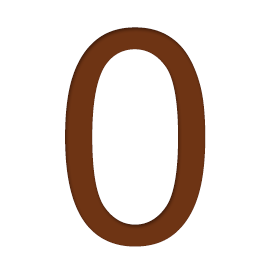
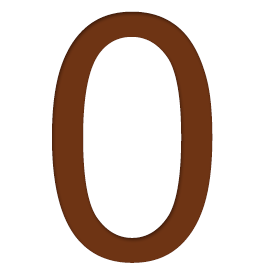
背景图片变大

Changed region(s): [[0.1798, 0.0292, 0.809, 0.9635]]

diff --git a/DeskNoManager/Form1.Designer.cs b/DeskNoManager/Form1.Designer.cs
@@ -65,7 +65,7 @@
             this.label1.AutoSize = true;
             this.label1.BackColor = System.Drawing.Color.Transparent;
             this.label1.ForeColor = System.Drawing.Color.LightCoral;
-            this.label1.Location = new System.Drawing.Point(220, 741);
+            this.label1.Location = new System.Drawing.Point(493, 780);
             this.label1.Name = "label1";
             this.label1.Size = new System.Drawing.Size(209, 12);
             this.label1.TabIndex = 1;
@@ -86,7 +86,7 @@
             this.pic1.BackColor = System.Drawing.Color.Transparent;
             this.pic1.BackgroundImageLayout = System.Windows.Forms.ImageLayout.Center;
             this.pic1.Image = global::DeskNoManager.Properties.Resources._0;
-            this.pic1.Location = new System.Drawing.Point(66, 184);
+            this.pic1.Location = new System.Drawing.Point(152, 191);
             this.pic1.Name = "pic1";
             this.pic1.Size = new System.Drawing.Size(295, 396);
             this.pic1.SizeMode = System.Windows.Forms.PictureBoxSizeMode.CenterImage;
@@ -98,7 +98,7 @@
             this.pic2.BackColor = System.Drawing.Color.Transparent;
             this.pic2.BackgroundImageLayout = System.Windows.Forms.ImageLayout.Center;
             this.pic2.Image = ((System.Drawing.Image)(resources.GetObject("pic2.Image")));
-            this.pic2.Location = new System.Drawing.Point(359, 186);
+            this.pic2.Location = new System.Drawing.Point(495, 193);
             this.pic2.Name = "pic2";
             this.pic2.Size = new System.Drawing.Size(295, 396);
             this.pic2.SizeMode = System.Windows.Forms.PictureBoxSizeMode.CenterImage;
@@ -110,7 +110,7 @@
             this.pic3.BackColor = System.Drawing.Color.Transparent;
             this.pic3.BackgroundImageLayout = System.Windows.Forms.ImageLayout.Center;
             this.pic3.Image = ((System.Drawing.Image)(resources.GetObject("pic3.Image")));
-            this.pic3.Location = new System.Drawing.Point(659, 186);
+            this.pic3.Location = new System.Drawing.Point(832, 193);
             this.pic3.Name = "pic3";
             this.pic3.Size = new System.Drawing.Size(295, 396);
             this.pic3.SizeMode = System.Windows.Forms.PictureBoxSizeMode.CenterImage;
@@ -121,8 +121,8 @@
             // 
             this.AutoScaleDimensions = new System.Drawing.SizeF(6F, 12F);
             this.AutoScaleMode = System.Windows.Forms.AutoScaleMode.Font;
-            this.BackgroundImage = global::DeskNoManager.Properties.Resources.取号7;
-            this.ClientSize = new System.Drawing.Size(1023, 762);
+            this.BackgroundImage = global::DeskNoManager.Properties.Resources.bg;
+            this.ClientSize = new System.Drawing.Size(1280, 801);
             this.Controls.Add(this.pic3);
             this.Controls.Add(this.pic2);
             this.Controls.Add(this.pic1);

diff --git a/DeskNoManager/Properties/Resources.Designer.cs b/DeskNoManager/Properties/Resources.Designer.cs
@@ -163,9 +163,9 @@ namespace DeskNoManager.Properties {
         /// <summary>
         ///   查找 System.Drawing.Bitmap 类型的本地化资源。
         /// </summary>
-        internal static System.Drawing.Bitmap 取号7 {
+        internal static System.Drawing.Bitmap bg {
             get {
-                object obj = ResourceManager.GetObject("取号7", resourceCulture);
+                object obj = ResourceManager.GetObject("bg", resourceCulture);
                 return ((System.Drawing.Bitmap)(obj));
             }
         }
